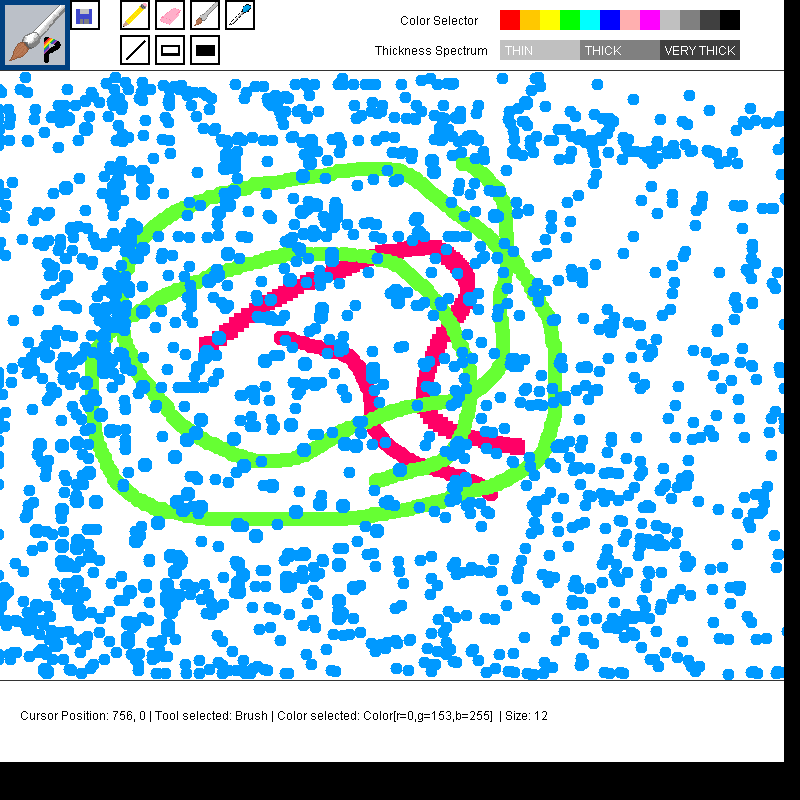
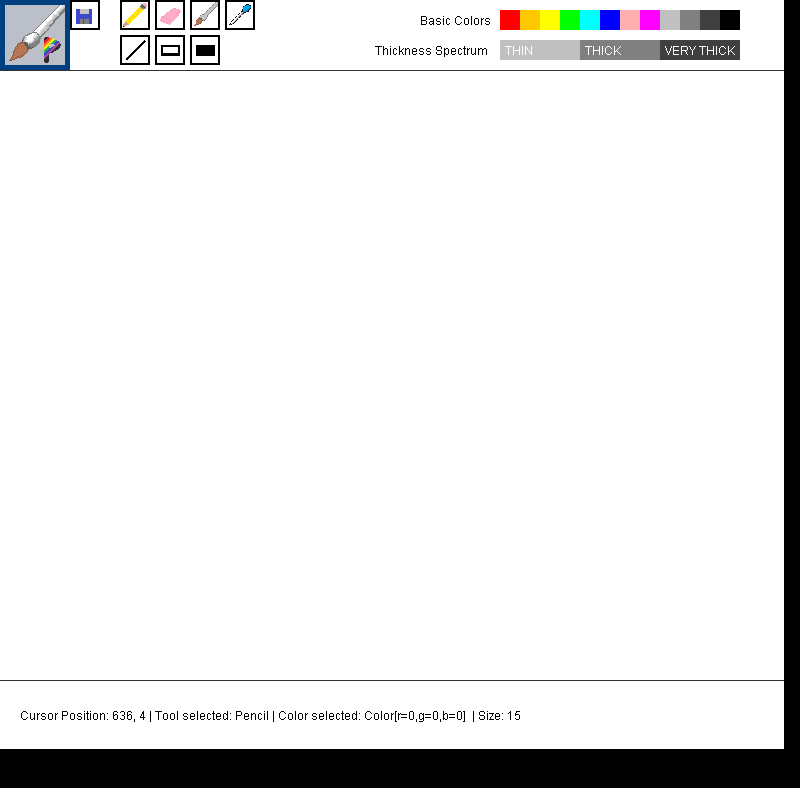
Added pre-program dialogue box

diff --git a/Painter/src/painter/StartScreen.java b/Painter/src/painter/StartScreen.java
@@ -5,24 +5,37 @@ import java.awt.Graphics;
 import java.awt.Image;
 import java.io.File;
 import javax.imageio.ImageIO;
+import javax.swing.ImageIcon;
 import javax.swing.JFrame;
+import javax.swing.JOptionPane;
 
 public class StartScreen {
 	public StartScreen(){
+		JFrame frame = new JFrame();
+		frame.setAlwaysOnTop(true);
+	    frame.setDefaultCloseOperation(JFrame.EXIT_ON_CLOSE);
+	    //Makes icon
+	    ImageIcon icon = new ImageIcon("src/painter/logo.png");
+		JOptionPane.showMessageDialog(frame, "PAINTER by Xavier Tao\n"
+				+ "2018 AP Computer Science A\n"
+				+ "This is a paint application. Have fun!\n"
+				+ "Special thanks to Derek Nakanishi for advice and help with graphics. \n\n"
+				+ "Helpful Tips: \n"
+				+ "Draw (drag) SLOWLY to make strokes. \n"
+				+ "Draw (drag) QUICKLY to experiment with splattering. \n"
+				+ "You may only draw inside the bordered region. Tools will stay in effect if cursor is released outside of the region. \n"
+				+ "If you would like to retrieve your autosaved drawing, go to src/painter/SAVEFILE.png and save that picture. \n"
+				+ "\n[Click OK to start painting!]","PAINTER by Xavier Tao",JOptionPane.INFORMATION_MESSAGE,icon);
 	}
 	
 	public void draw(Graphics window){
 		
-//		JFrame frame = new JFrame();
-//	    frame.setAlwaysOnTop(true);
-//	    frame.setDefaultCloseOperation(JFrame.EXIT_ON_CLOSE);
-	    
-	    //try making a popup JDialog or something
+		
 	    
 		window.setColor(Color.BLACK);
-		window.drawString("PAINTER by Xavier Tao: 2018 AP Computer Science A", 100, 150);
-		window.drawString("This is a paint application. Explore the functions and have fun!", 100, 170);
-		window.drawString("Credits to Derek N. for graphics advice. ", 100, 190);
+		window.drawString("", 100, 150);
+		window.drawString("", 100, 170);
+		window.drawString("", 100, 190);
 		window.drawString("If you would like to retrieve your autosaved drawing, go to src/painter/SAVEFILE.png and save that picture. ", 100, 210);
 		window.drawString("Helpful Tips: ", 100, 250);
 		window.drawString("DRAW (DRAG) SLOWLY TO MAKE STROKES.  ", 100, 270);

diff --git a/Painter/src/painter/Painter.java b/Painter/src/painter/Painter.java
@@ -91,6 +91,8 @@ public class Painter extends Canvas implements MouseListener, MouseMotionListene
 		this.addMouseMotionListener(this);
 		new Thread(this).start();
 
+		StartScreen a = new StartScreen();
+		
 		setVisible(true);
 	}
 	public void update(Graphics window)
@@ -106,14 +108,14 @@ public class Painter extends Canvas implements MouseListener, MouseMotionListene
 		Graphics graphToBack = back.createGraphics();
 		
 		//Loads first screen
-		if(firstload){
-		StartScreen ss = new StartScreen();
-		ss.draw(graphToBack);
-		if(mouseDown){
-			ss.getOut(graphToBack);
-			firstload = false;
-			}
-		}
+//		if(firstload){
+//		StartScreen ss = new StartScreen();
+//		ss.draw(graphToBack);
+//		if(mouseDown){
+//			ss.getOut(graphToBack);
+//			firstload = false;
+//			}
+//		}
 		//Loads toolbar elements
 		graphToBack.drawLine(0, 70, 800, 70);
 		graphToBack.drawLine(0, 680, 800, 680);

diff --git a/Painter/src/painter/Palette.java b/Painter/src/painter/Palette.java
@@ -14,7 +14,7 @@ public class Palette {
 	
 	public Palette(Graphics window){
 		window.setColor(Color.BLACK);
-		window.drawString("Color Selector", 400, 25);
+		window.drawString("Basic Colors", 420, 25);
 		int cmult = 20;
 		for(int i=0;i<cols.length;i++){
 				window.setColor(cols[i]);
